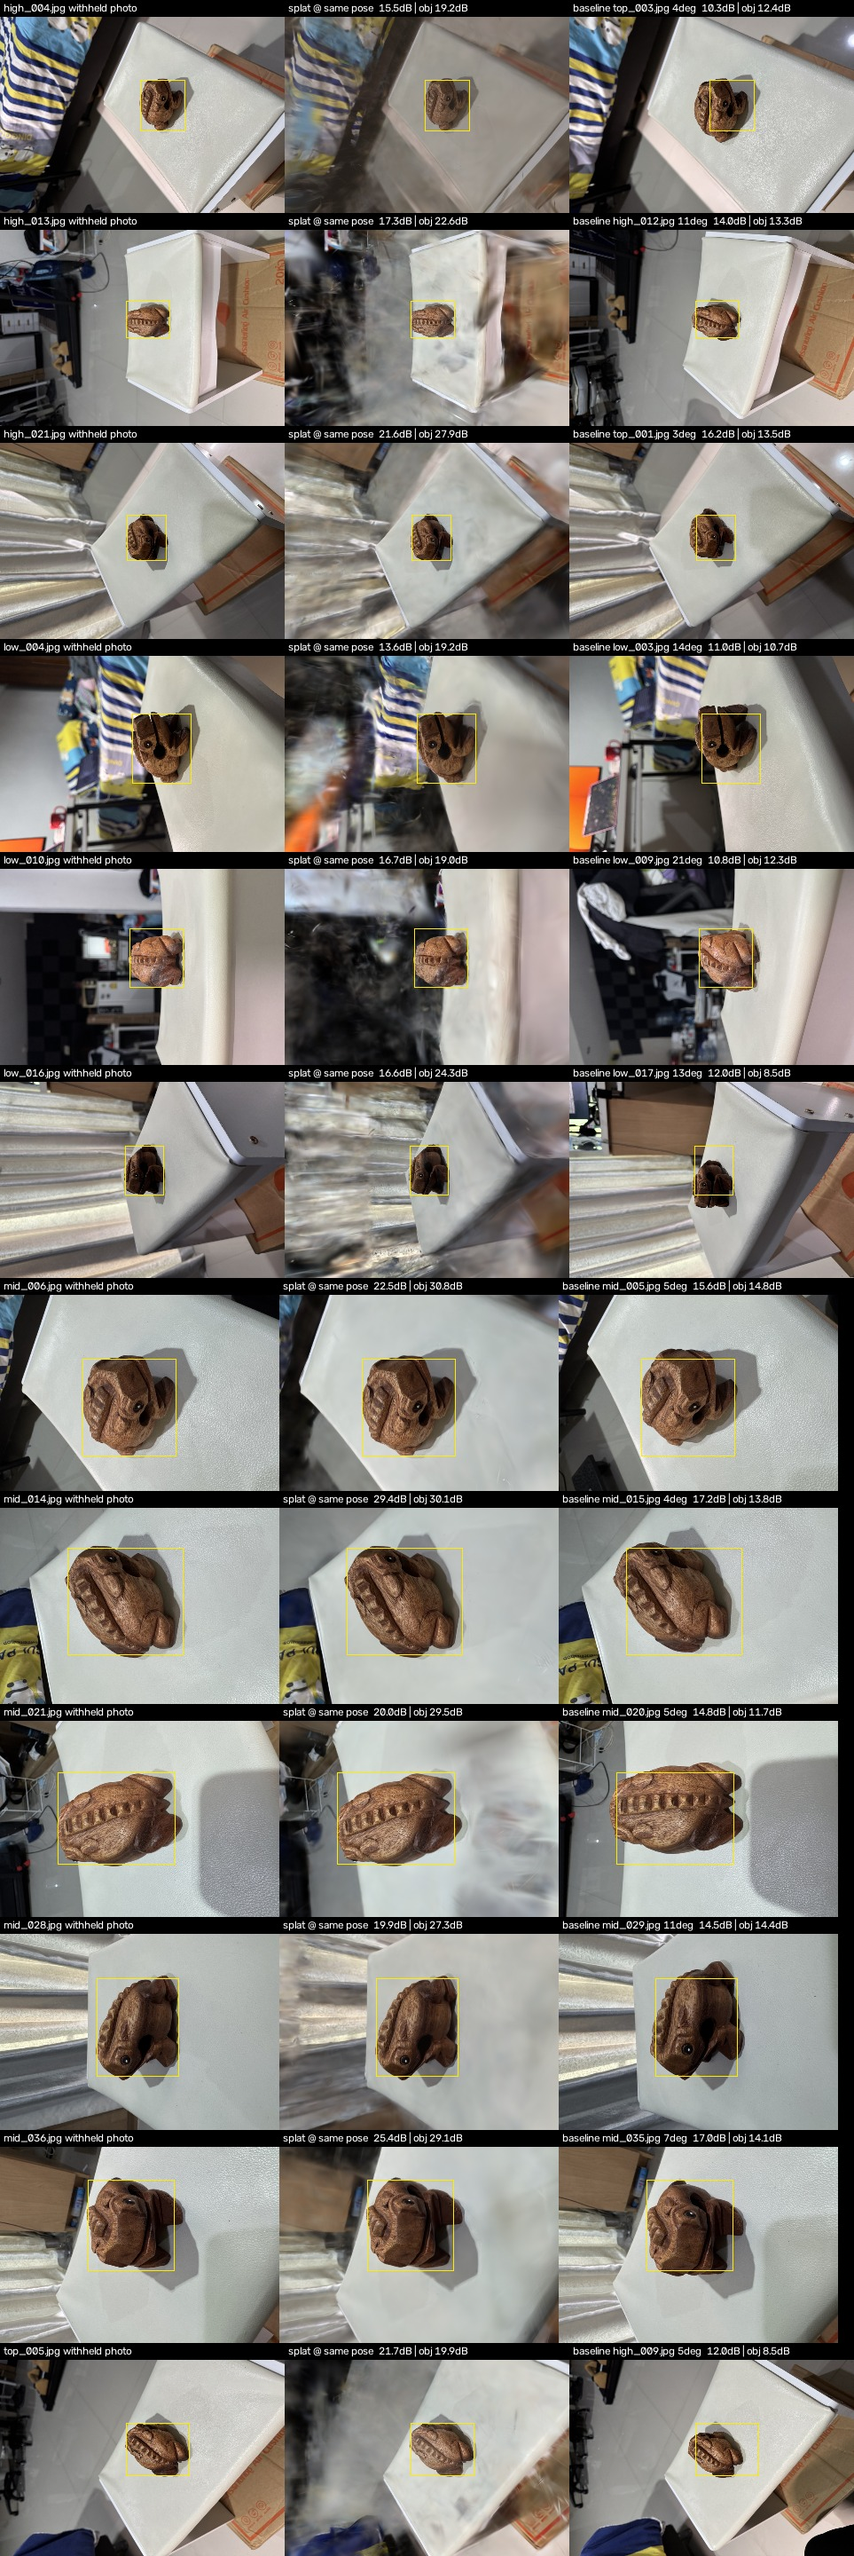
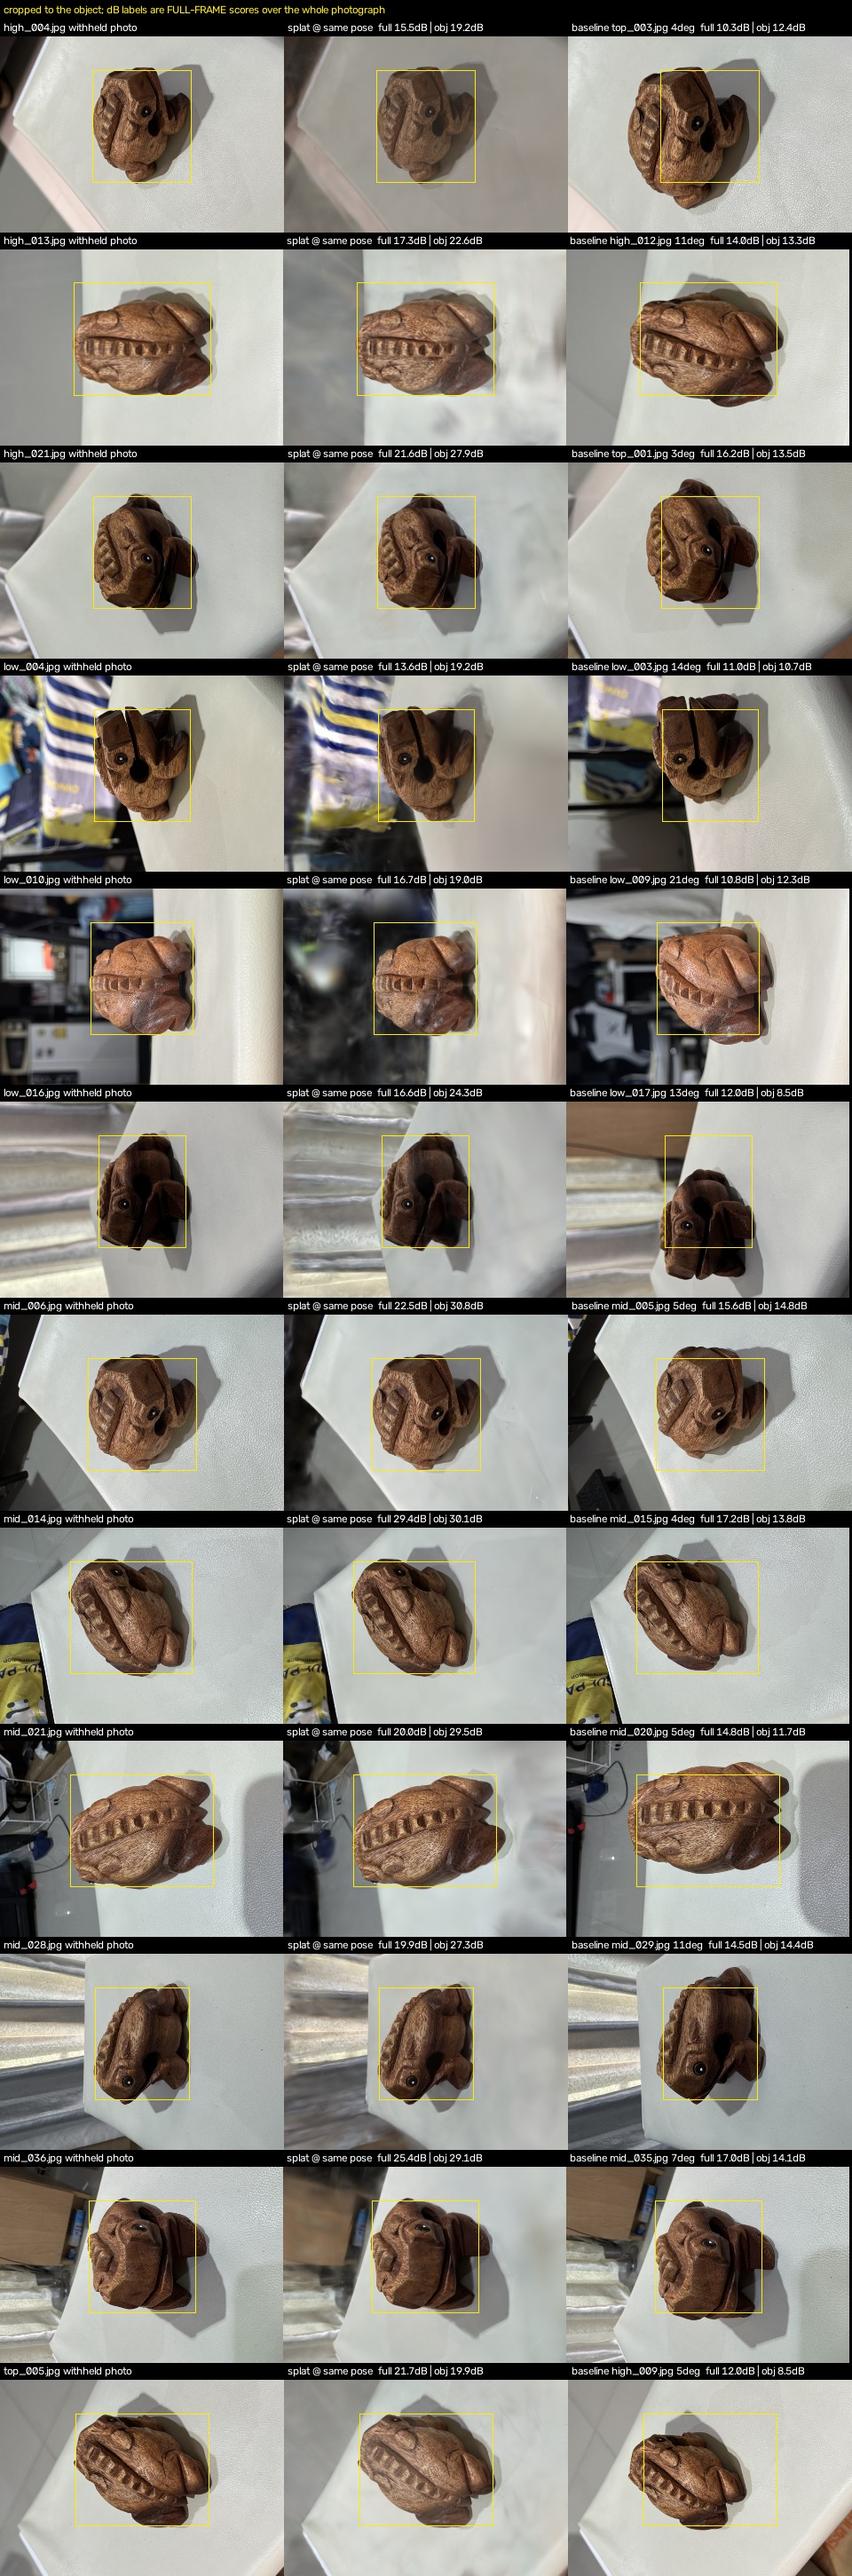
Crop the committed contact sheets to the frog
The repository is public and the held-out frames are of a room in a private
home. The part that demonstrates the reconstruction is the carving, so the
sheets now show a window around it -- the same window in all three columns,
so the withheld photograph, the render and the baseline stay aligned.

The crop is presentation only. Every score is still computed on the whole
photograph: holdout_metrics.csv and holdout_summary.txt are unchanged by
this commit, and the tiles now label their numbers "full" with a banner
saying so, since a cropped image beside a full-frame dB figure invites
exactly the wrong reading.

One consequence is recorded in NEURAL_CAPTURE.md rather than left implicit:
the sheets can no longer show the second failure mode, the smeared
background in under-observed regions, because that happens in the part of
the frame the crop removes. That finding is carried by the full-frame
versus object-region gap instead. --sheet-pad reopens the window locally.

diff --git a/tools/eval_holdout.py b/tools/eval_holdout.py
@@ -62,6 +62,30 @@ def to_bgr_u8(arr) -> np.ndarray:
     return cv2.cvtColor((a * 255.0 + 0.5).astype(np.uint8), cv2.COLOR_RGB2BGR)
 
 
+def sheet_crop(box, shape, pad_frac: float, aspect: float = 4 / 3):
+    """A window around the object for the contact sheet, or None to keep the frame.
+
+    Presentation only. The scores are computed on the whole photograph; this just
+    decides what the sheet shows. Cropping matters because the frames are of a
+    room in someone's home and the sheets are committed to a public repository,
+    while the part that demonstrates the reconstruction is the frog. The same
+    window is applied to all three columns, so the comparison stays aligned.
+    """
+    if box is None:
+        return None
+    h, w = shape[:2]
+    x0, y0, x1, y1 = box
+    cx, cy = (x0 + x1) / 2, (y0 + y1) / 2
+    bw, bh = (x1 - x0) * (1 + 2 * pad_frac), (y1 - y0) * (1 + 2 * pad_frac)
+    bw, bh = (max(bw, bh * aspect), max(bh, bw / aspect))
+    bw, bh = min(bw, w), min(bh, h)
+    bw, bh = (min(bw, bh * aspect), min(bh, bw / aspect))
+    bw, bh = int(round(bw)), int(round(bh))
+    cx0 = int(min(max(0, round(cx - bw / 2)), w - bw))
+    cy0 = int(min(max(0, round(cy - bh / 2)), h - bh))
+    return cx0, cy0, cx0 + bw, cy0 + bh
+
+
 def ci95(values: np.ndarray) -> tuple[float, float, float, float]:
     """Mean, half-width, t statistic and p-value for a paired difference."""
     n = len(values)
@@ -90,6 +114,12 @@ def main() -> int:
     ap.add_argument("--out", default="output/neural")
     ap.add_argument("--downscale", type=int, required=True, help="must match the training downscale")
     ap.add_argument("--contact-sheet", action="store_true")
+    ap.add_argument(
+        "--sheet-pad", type=float, default=0.45,
+        help="context around the object in the contact sheet, as a fraction of the "
+             "object box; 0 crops to the box itself. Presentation only - scores are "
+             "always computed on the whole photograph",
+    )
     ap.add_argument(
         "--object-radius", type=float, default=None,
         help="radius about the scene median bounding the object, in COLMAP units; "
@@ -328,13 +358,20 @@ def main() -> int:
         tiles = []
         for name, gt, rendered, near, rec, box in sheet:
             h = 240
+            crop = sheet_crop(box, gt.shape, args.sheet_pad)
+            cx0, cy0, cx1, cy1 = crop if crop else (0, 0, gt.shape[1], gt.shape[0])
+
             def fit(img, label, box=box):
-                s_ = h / img.shape[0]
-                scaled = cv2.resize(img, (int(img.shape[1] * s_), h))
+                view = img[cy0:cy1, cx0:cx1]
+                s_ = h / view.shape[0]
+                scaled = cv2.resize(view, (max(1, int(view.shape[1] * s_)), h))
                 if box is not None:
-                    # The region the secondary diagnostic scores, so the reader can
-                    # see which part of the frame that number is about.
-                    x0, y0, x1, y1 = (int(round(v * s_)) for v in box)
+                    # The region the secondary diagnostic scores, in crop coords, so
+                    # the reader can see which pixels that number is about.
+                    x0, y0, x1, y1 = (
+                        int(round((box[0] - cx0) * s_)), int(round((box[1] - cy0) * s_)),
+                        int(round((box[2] - cx0) * s_)), int(round((box[3] - cy0) * s_)),
+                    )
                     cv2.rectangle(scaled, (x0, y0), (x1, y1), (0, 235, 255), 1)
                 cv2.rectangle(scaled, (0, 0), (scaled.shape[1] - 1, 18), (0, 0, 0), -1)
                 cv2.putText(scaled, label, (4, 13), cv2.FONT_HERSHEY_SIMPLEX, 0.42, (255, 255, 255), 1, cv2.LINE_AA)
@@ -342,16 +379,22 @@ def main() -> int:
             tiles.append(
                 np.hstack([
                     fit(gt, f"{name} withheld photo"),
-                    fit(rendered, f"splat @ same pose  {rec['psnr_render']:.1f}dB"
+                    fit(rendered, f"splat @ same pose  full {rec['psnr_render']:.1f}dB"
                         + (f" | obj {rec['psnr_render_obj']:.1f}dB" if 'psnr_render_obj' in rec else "")),
-                    fit(near, f"baseline {rec['baseline_name']} {rec['baseline_sep_deg']:.0f}deg  {rec['psnr_baseline']:.1f}dB"
+                    fit(near, f"baseline {rec['baseline_name']} {rec['baseline_sep_deg']:.0f}deg  full {rec['psnr_baseline']:.1f}dB"
                         + (f" | obj {rec['psnr_baseline_obj']:.1f}dB" if 'psnr_baseline_obj' in rec else "")),
                 ])
             )
         width = max(t.shape[1] for t in tiles)
         tiles = [np.pad(t, ((0, 0), (0, width - t.shape[1]), (0, 0))) for t in tiles]
+        banner = np.zeros((22, width, 3), np.uint8)
+        cv2.putText(
+            banner,
+            "cropped to the object; dB labels are FULL-FRAME scores over the whole photograph",
+            (4, 15), cv2.FONT_HERSHEY_SIMPLEX, 0.42, (0, 235, 255), 1, cv2.LINE_AA,
+        )
         path = out / "holdout_contact_sheet.jpg"
-        cv2.imwrite(str(path), np.vstack(tiles), [cv2.IMWRITE_JPEG_QUALITY, 92])
+        cv2.imwrite(str(path), np.vstack([banner] + tiles), [cv2.IMWRITE_JPEG_QUALITY, 92])
         print(f"wrote {path}")
     return 0
 

diff --git a/NEURAL_CAPTURE.md b/NEURAL_CAPTURE.md
@@ -383,8 +383,19 @@ iterations, 951x709, SH degree 2, 78,888 Gaussians, 6.5 min) reached 19.28 dB /
 
 ### Where it fails, and why
 
-Two failure modes are visible in `output/neural/balanced/holdout_contact_sheet.jpg`
-and worth reporting rather than hiding.
+Two failure modes, both worth reporting rather than hiding.
+
+A note on the evidence first, because it bears on what the contact sheets can and
+cannot show. `output/neural/*/holdout_contact_sheet.jpg` is **cropped to the frog**
+— the frames are of a room in a private home and this repository is public. That
+crop is presentation only: every dB and SSIM figure quoted anywhere is computed on
+the **whole photograph**, and the sheets label their numbers `full` for that reason.
+The consequence is that the sheets are good evidence for the first failure below
+being *absent* on the object, and no evidence at all for the second, which happens
+in the part of the frame the crop removes. That one is carried by the numbers.
+`tools/eval_holdout.py --sheet-pad` widens the window — large values open it out to
+essentially the whole frame (4:3 aspect is enforced, so a few pixels stay cropped) — if you want to look at the backgrounds locally. Do not commit
+what that produces.
 
 **The room is reconstructed far worse than the frog.** Scoring only inside the
 frog's own projected bounding box — 9.1% of the frame, defined from the sparse
@@ -507,3 +518,8 @@ What *is* tracked, and is enough to reproduce and to audit the result:
 `config/neural_manifest.csv` (every source photograph with its optics and
 SHA-256), `config/neural_split.csv` (the frozen split), `output/neural/*/` (the
 metrics, summaries and contact sheets) and `run_neural.sh` with `tools/`.
+
+The repository is public, so the tracked contact sheets are cropped to the frog.
+Nothing else in `output/neural/` contains imagery. If more of the capture is ever
+committed, check first what is in frame — the shoot was done in a private home,
+and `data/**` is gitignored for that reason as much as for size.

diff --git a/CLAUDE.md b/CLAUDE.md
@@ -101,6 +101,8 @@ tools/report_facts.py            the table NEURAL_CAPTURE.md asks the report for
 config/neural_manifest.csv       every source photo, its optics and SHA-256
 config/neural_split.csv          the frozen train/holdout split
 output/neural/<quality>/         held-out metrics, summary and contact sheet
+                      (sheets are cropped to the frog: the repo is public and the
+                       frames are of a private home. Scores are full-frame)
 scraper.py            dataset collection for the classifier (not started)
 training/train.py     MobileNetV2 transfer learning (not started)
 docs/                 progress report (.docx) and the presentation script
